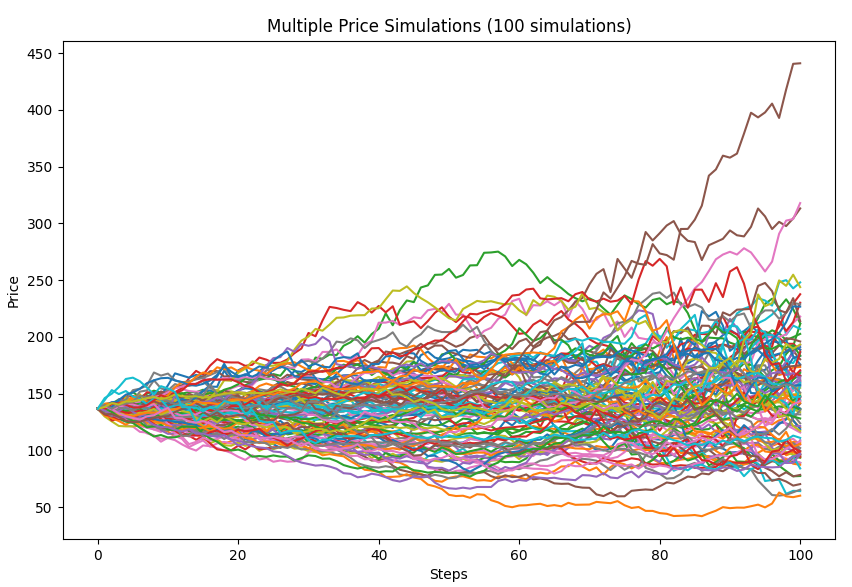
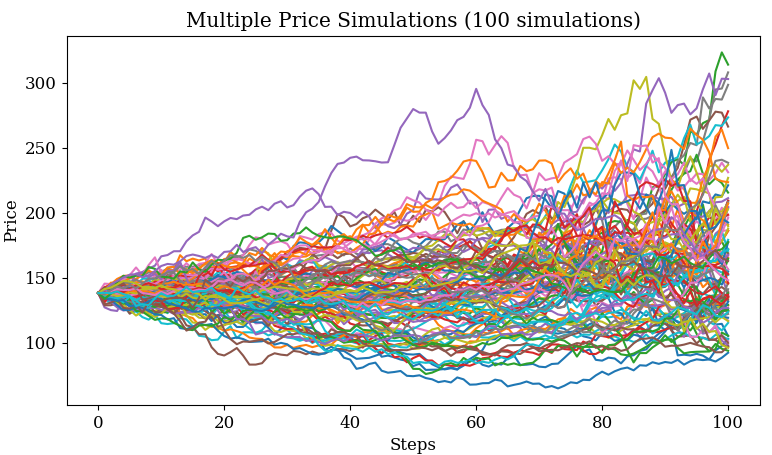
V5

diff --git a/plotter.py b/plotter.py
@@ -8,29 +8,31 @@ import numpy as np
 
 
 class StockPlotter:
-    def __init__(self, ticker, start_date='2022-01-01', end_date=None):
-        self.ticker = ticker
+    def __init__(self, tickers, start_date='2022-01-01', end_date=None):
+        self.tickers = tickers
         self.start_date = start_date
         self.end_date = end_date
         self.data = self.get_stock_data()
 
     def get_stock_data(self):
-        stock_data = yf.download(self.ticker, start=self.start_date, end=self.end_date)
+        stock_data = yf.download(self.tickers, start=self.start_date, end=self.end_date)
         return stock_data
 
     def plot_stock(self, column='Close', title='Stock Price', figsize=(10, 6)):
         plt.figure(figsize=figsize)
-        plt.plot(self.data.index, self.data[column], label=column)
+        for ticker in self.tickers:
+            plt.plot(self.data.index, self.data[column][ticker], label=f'{ticker} - {column}')
         plt.title(title)
         plt.xlabel('Date')
         plt.ylabel(column)
         plt.legend()
         plt.show()
 
-    def plot_multiple_stocks(self, columns=['Close'], title='Stock Prices', figsize=(10, 6)):
+    def plot_multiple_stocks(self, columns=['Close'], title='Stock Prices', figsize=(12, 6)):
         plt.figure(figsize=figsize)
         for column in columns:
-            plt.plot(self.data.index, self.data[column], label=column)
+            for ticker in self.tickers:
+                plt.plot(self.data.index, self.data[column][ticker], label=f'{ticker} - {column}')
         plt.title(title)
         plt.xlabel('Date')
         plt.ylabel('Price')
@@ -39,8 +41,9 @@ class StockPlotter:
 
     def plot_moving_average(self, column='Close', window=20, title='Moving Average', figsize=(10, 6)):
         plt.figure(figsize=figsize)
-        plt.plot(self.data.index, self.data[column], label='Original')
-        plt.plot(self.data[column].rolling(window=window).mean(), label=f'{window}-day Moving Average', color='orange')
+        for ticker in self.tickers:
+            plt.plot(self.data.index, self.data[column][ticker], label=f'{ticker} - Original')
+            plt.plot(self.data[column][ticker].rolling(window=window).mean(), label=f'{ticker} - {window}-day Moving Average')
         plt.title(title)
         plt.xlabel('Date')
         plt.ylabel(column)
@@ -48,14 +51,15 @@ class StockPlotter:
         plt.show()
 
     def plot_bollinger_bands(self, column='Close', window=20, num_std=2, title='Bollinger Bands', figsize=(10, 6)):
-        rolling_mean = self.data[column].rolling(window=window).mean()
-        upper_band = rolling_mean + (self.data[column].rolling(window=window).std() * num_std)
-        lower_band = rolling_mean - (self.data[column].rolling(window=window).std() * num_std)
-
         plt.figure(figsize=figsize)
-        plt.plot(self.data.index, self.data[column], label='Price')
-        plt.plot(upper_band, label='Upper Band')
-        plt.plot(lower_band, label='Lower Band')
+        for ticker in self.tickers:
+            rolling_mean = self.data[column][ticker].rolling(window=window).mean()
+            upper_band = rolling_mean + (self.data[column][ticker].rolling(window=window).std() * num_std)
+            lower_band = rolling_mean - (self.data[column][ticker].rolling(window=window).std() * num_std)
+
+            plt.plot(self.data.index, self.data[column][ticker], label=f'{ticker} - Price')
+            plt.plot(upper_band, label=f'{ticker} - Upper Band')
+            plt.plot(lower_band, label=f'{ticker} - Lower Band')
         plt.title(title)
         plt.xlabel('Date')
         plt.ylabel(column)
@@ -64,8 +68,9 @@ class StockPlotter:
 
     def plot_exponential_moving_average(self, column='Close', span=20, title='Exponential Moving Average', figsize=(10, 6)):
         plt.figure(figsize=figsize)
-        plt.plot(self.data.index, self.data[column], label='Original')
-        plt.plot(self.data[column].ewm(span=span, adjust=False).mean(), label=f'{span}-day Exponential Moving Average', color='orange')
+        for ticker in self.tickers:
+            plt.plot(self.data.index, self.data[column][ticker], label=f'{ticker} - Original')
+            plt.plot(self.data[column][ticker].ewm(span=span, adjust=False).mean(), label=f'{ticker} - {span}-day Exponential Moving Average', color='orange')
         plt.title(title)
         plt.xlabel('Date')
         plt.ylabel(column)

diff --git a/price_simulation.py b/price_simulation.py
@@ -9,55 +9,52 @@ import matplotlib
 matplotlib.use('TkAgg')  # ou outro backend suportado
 
 
-def PriceSimulationFunc(data, steps=10, distribution='MixGaussians'):
+def PriceSimulationFunc(data, steps=10, num_simulations=1, distribution='MixGaussians', ticker_title=None):
     data = pd.DataFrame(data)
     p0 = data.iloc[-1]['Close']
     last_date = data.iloc[-1]['Date']
     data_r = data['Return'].dropna().to_numpy().reshape(-1, 1)
-    count = 0
-    prices = [p0]
 
-    if distribution == 'MixGaussians':
-        # Ajuste o modelo de Mixture of Gaussians aos dados
-        num_components = 2
-        model = GaussianMixture(n_components=num_components)
-        model.fit(data_r)
-        # Gere números aleatórios com base no modelo ajustado
-        num_samples = steps
-        ''' Uma lista de numeros aleatorios que seguem a distribuição das MixGaussians'''
-        samples = model.sample(num_samples)[0]
-        samples_list= []
-        for i in samples:
-            actual_value  = i[0]
-            samples_list.append(actual_value)
-        samples = np.array(samples_list)
-
-        while count < steps:
-            R = samples[count]
-            price = prices[-1] * (1 + R)  # pela própria def de retorno
-            prices.append(price)
-            count += 1
-
-    elif distribution == 't-distribution':
-        df, loc, scale = t.fit(data['Return'].dropna())
-
-        while count < steps:
-            R = t.rvs(df, loc, scale)
-            price = prices[-1] * (1 + R)
-            prices.append(price)
-            count += 1
-
-    # Configurações do plot
-    #sns.set(style="whitegrid")  # Estilo de fundo do seaborn
     plt.figure(figsize=(10, 6))  # Tamanho do gráfico
 
-    # Plot dos preços
-    plt.plot(prices, color='blue', label='Simulated Prices')
+    for _ in range(num_simulations):
+        count = 0
+        prices = [p0]
 
-    # Títulos e rótulos
-    plt.title('Simulação de Preços', fontsize=16)
+        if distribution == 'MixGaussians':
+            # Ajuste o modelo de Mixture of Gaussians aos dados
+            num_components = 2
+            model = GaussianMixture(n_components=num_components)
+            model.fit(data_r)
+            # Gere números aleatórios com base no modelo ajustado
+            num_samples = steps
+            samples = model.sample(num_samples)[0]
+            samples_list = [i[0] for i in samples]
+            samples = np.array(samples_list)
+
+            while count < steps:
+                R = samples[count]
+                price = prices[-1] * (1 + R)  # pela própria definição de retorno
+                prices.append(price)
+                count += 1
+
+        elif distribution == 't-distribution':
+            df, loc, scale = t.fit(data['Return'].dropna())
+
+            while count < steps:
+                R = t.rvs(df, loc, scale)
+                price = prices[-1] * (1 + R)
+                prices.append(price)
+                count += 1
+
+        # Plot dos preços simulados
+        plt.plot(prices)
+
+    # Configurações do plot
+    plt.title(f'Simulação de Preços - {ticker_title}' if ticker_title else 'Simulação de Preços', fontsize=16)
     plt.xlabel('Days', fontsize=14)
-    plt.ylabel('Preço', fontsize=14)
+    plt.ylabel('Preço USD', fontsize=14)
+    plt.grid(True)
 
     # Adiciona a legenda
     plt.legend()

diff --git a/run.py b/run.py
@@ -9,7 +9,10 @@ from stats_time_series import diff_times_return, diff_times_prices
 from arima_forecast import ARIMAPredictor
 import matplotlib.pyplot as plt
 import pandas as pd
-    
+
+plt.rcParams['font.family']= 'serif'
+plt.rcParams['font.size'] = 12    
+
 if __name__ == "__main__":
     googl = stock_data('GOOGL')
 # Exemplo de uso com parâmetros ajustados
@@ -29,10 +32,11 @@ if __name__ == "__main__":
     analyzer = StockAnalyzer(stocks_list, start_date=start_date)
     analyzer.plot_correlation_matrix()
     analyzer.plot_pairplot()'''
-    
     #analyzer.plot_returns_over_time(separate_plots=False)  # Altere para False para todos os valores no mesmo plot
     #MixtureModel(googl, mode='log')
-    #PriceSimulationFunc(data=googl, steps=100, distribution='MixGaussians')]
+
+    #PriceSimulationFunc(data=googl, steps=10, num_simulations=100, distribution='MixGaussians', ticker_title=None)
+
     
     # Exemplo de uso
     '''ticker = ['AAPL','AMZN']
@@ -43,7 +47,7 @@ if __name__ == "__main__":
     plotter.plot_bollinger_bands()
     plotter.plot_exponential_moving_average(span=30)
     PriceSimulationFunc_trend(googl, steps=100, num_simulations=100, distribution='MixGaussians', trend='up', trend_strength=1.)'''
-    
+
     # Exemplo de uso para 'Close'
     '''aapl = stock_data('AAPL')
     aapl['Date'] = pd.to_datetime(aapl['Date'])
